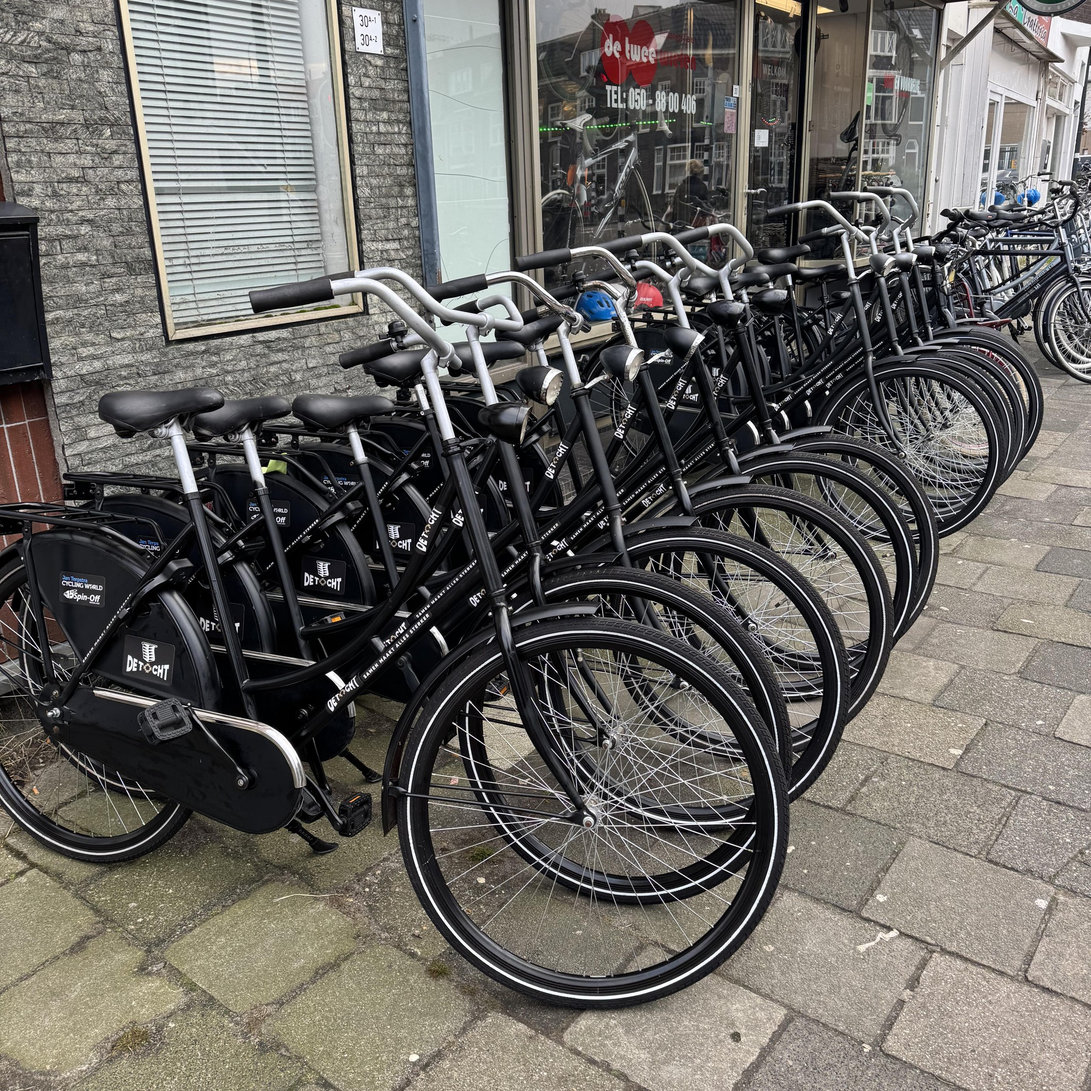
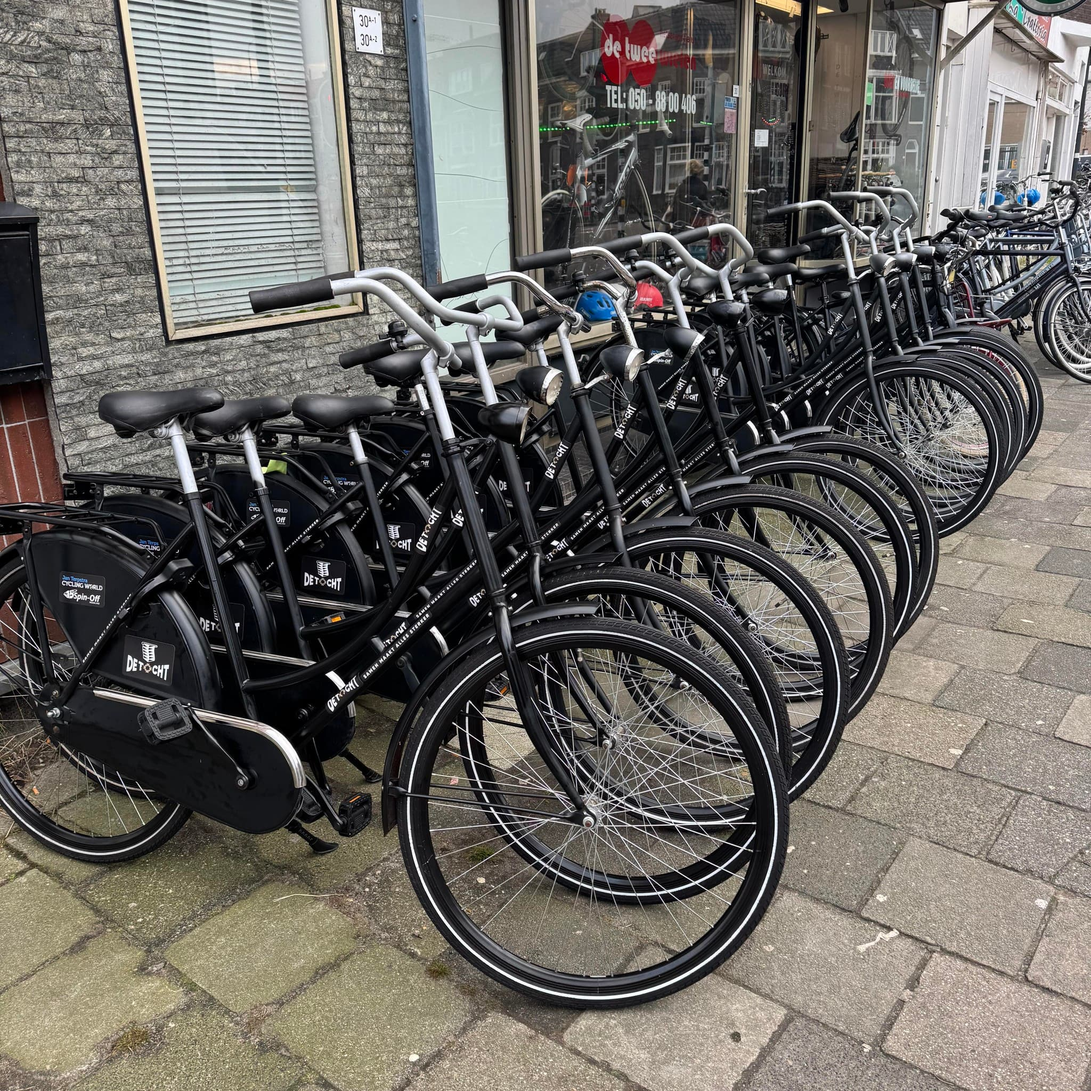
ahrefs feedback

diff --git a/src/data/service-pages.ts b/src/data/service-pages.ts
@@ -21,12 +21,12 @@ export const servicePages: ServicePage[] = [
       nl: "Volledig gereviseerde, studentvriendelijke fietsen vanaf €120.",
     },
     metaTitle: {
-      en: "Second Hand Bikes Groningen | Fixed & Student-Ready",
-      nl: "Tweedehands Fietsen Groningen | Rijklaar & Goedkoop",
+      en: "Second Hand Bikes from €120",
+      nl: "Tweedehands Fietsen v.a. €120",
     },
     metaDescription: {
-      en: "Looking for a cheap bike in Groningen? Our second-hand bikes are fully fixed and safety-checked. Typical prices: €70-€200.",
-      nl: "Op zoek naar een goedkope fiets in Groningen? Onze tweedehands fietsen zijn nagekeken en veilig. Prijzen doorgaans tussen €70-€200.",
+      en: "Looking for a cheap bike in Groningen? Our second-hand bikes are fully refurbished, safety-checked, and ready to ride. Quality cycles for every budget.",
+      nl: "Zoek je een goedkope fiets in Groningen? Onze tweedehands fietsen zijn volledig nagekeken, veilig en rijklaar. Kwaliteit voor elk budget.",
     },
     intro: {
       en: "In a cycling city like Groningen, you need a bike that is reliable but affordable. Our second-hand collection focuses on 'fixed' bikes—refurbished classics typically priced between €70 and €200.",
@@ -63,12 +63,12 @@ export const servicePages: ServicePage[] = [
       nl: "Snelle reparaties doorgaans binnen 24 uur klaar. Kleine fix vanaf €15.",
     },
     metaTitle: {
-      en: "Professional Bike Repair Groningen | All Models",
-      nl: "Professionele Fietsreparatie Groningen | Alle Modellen",
+      en: "Fast Bike Repair (24h Service)",
+      nl: "Snelle Fietsreparatie (24u klaar)",
     },
     metaDescription: {
-      en: "Reliable bike repair in Groningen. Small repairs from €15. Aiming for same-day service, 3-5 days in busy periods.",
-      nl: "Betrouwbare fietsreparatie in Groningen. Kleine reparaties vanaf €15. Streven naar dezelfde dag klaar, 3-5 dagen bij drukte.",
+      en: "Reliable bike repair in Groningen. Most repairs ready within 24 hours. From flat tires to gear adjustments, we get you back on the road fast.",
+      nl: "Betrouwbare fietsreparatie in Groningen. Meestal binnen 24 uur klaar. Van lekke banden tot versnellingen, wij helpen je snel weer op weg.",
     },
     intro: {
       en: "Don't let a broken chain or a flat tire ruin your day. Small repairs typically start around €15-€25, and we aim to have your bike back on the road within 1 business day.",
@@ -105,12 +105,12 @@ export const servicePages: ServicePage[] = [
       nl: "Kwaliteitsstadsfietsen vanaf €450. Rijklaar in 1-2 dagen.",
     },
     metaTitle: {
-      en: "New Bikes Groningen | Quality & Warranty",
-      nl: "Nieuwe Fietsen Groningen | Kwaliteit & Garantie",
+      en: "New City Bikes from €450",
+      nl: "Nieuwe Stadsfietsen v.a. €450",
     },
     metaDescription: {
-      en: "Latest city bike models in Groningen starting from €450. Professional assembly usually takes 1-2 business days.",
-      nl: "Nieuwste stadsfietsen in Groningen vanaf €450. Professionele montage duurt doorgaans 1-2 werkdagen.",
+      en: "Looking for a brand new bike in Groningen? Explore our range of quality city bikes with full warranty. Professional assembly and personal adjustments included.",
+      nl: "Op zoek naar een nieuwe fiets in Groningen? Ontdek ons aanbod kwaliteitsfietsen met volledige garantie. Inclusief professionele montage en afstelling.",
     },
     intro: {
       en: "Our new bike range starts from approximately €450 for reliable city models. To ensure your safety, we typically require 1-2 days to perform a professional zero-service check and height adjustment.",
@@ -147,12 +147,12 @@ export const servicePages: ServicePage[] = [
       nl: "ART-gekeurde sloten en LED-verlichting vanaf €15. Direct leverbaar.",
     },
     metaTitle: {
-      en: "Bike Accessories Groningen | Locks, Lights & Seats",
-      nl: "Fietsaccessoires Groningen | Sloten, Licht & Zadels",
+      en: "Bicycle Locks & Accessories",
+      nl: "Fietsaccessoires & ART Sloten",
     },
     metaDescription: {
-      en: "Upgrade your bike in Groningen. High-quality locks and lights typically €15-€80. Available for immediate pickup.",
-      nl: "Upgrade je fiets in Groningen. Sloten en lichten doorgaans €15-€80. Direct af te halen in de winkel.",
+      en: "Protect your bike in Groningen with ART-approved locks and stay visible with LED lights. Quality accessories for students and daily commuters.",
+      nl: "Bescherm je fiets in Groningen met ART-gekeurde sloten en blijf zichtbaar met LED-verlichting. Kwaliteitsaccessoires voor studenten en forenzen.",
     },
     intro: {
       en: "The right accessories range from €10 for basics to €90 for high-security locks. Most items are available for immediate pickup or same-day installation.",
@@ -188,12 +188,12 @@ export const servicePages: ServicePage[] = [
       nl: "Groningen-proof fietsen, perfect voor je dagelijkse ritten naar Zernike of het centrum.",
     },
     metaTitle: {
-      en: "Student Bikes Groningen | Reliable & Affordable",
-      nl: "Studentenfiets Kopen Groningen | Betrouwbaar & Betaalbaar",
+      en: "Student Bikes from €120",
+      nl: "Studentenfiets Kopen v.a. €120",
     },
     metaDescription: {
-      en: "Need a student bike in Groningen? We offer sturdy omafietsen and city bikes from €120, fully checked and ready for the daily commute to RUG or Hanze.",
-      nl: "Studentenfiets nodig in Groningen? Wij bieden stevige omafietsen en stadsfietsen vanaf €120, volledig nagekeken en klaar voor de rit naar RUG of Hanze.",
+      en: "Looking for a reliable student bike in Groningen? We offer refurbished city bikes and omafietsen from €120. Perfect for Zernike, Hanze, or RUG commutes.",
+      nl: "Betrouwbare studentenfiets nodig in Groningen? Wij bieden refurbished stadsfietsen en omafietsen vanaf €120. Ideaal voor ritjes naar Zernike of Hanze.",
     },
     intro: {
       en: "Welcome to the ultimate cycling city. As a student in Groningen, a working bike isn't an option—it's a lifeline. We provide no-nonsense, reliable bikes that survive the student lifestyle.",
@@ -230,12 +230,12 @@ export const servicePages: ServicePage[] = [
       nl: "Budgetvriendelijke opties zonder in te leveren op basisveiligheid.",
     },
     metaTitle: {
-      en: "Cheap Bikes Groningen | Best Budget Options",
-      nl: "Goedkope Fiets Kopen Groningen | Beste Budget Opties",
+      en: "Cheap Budget Bikes Groningen",
+      nl: "Goedkope Fietsen Groningen",
     },
     metaDescription: {
-      en: "Looking for the cheapest working bikes in Groningen? Check out our budget options. Safe, functional, and strictly priced for tight budgets.",
-      nl: "Op zoek naar de goedkoopste werkende fietsen in Groningen? Bekijk onze budget opties. Veilig, functioneel en scherp geprijsd voor een krap budget.",
+      en: "Need a bike but on a tight budget? Check out our range of cheap, functional, and safety-checked bicycles in Groningen. Safety at the best price.",
+      nl: "Fiets nodig met een krap budget? Bekijk ons aanbod goedkope, functionele en nagekeken fietsen in Groningen. Veiligheid voor de beste prijs.",
     },
     intro: {
       en: "Sometimes you just need to get from point A to B as cheaply as possible. Our budget category offers the most affordable working bikes in Groningen.",
@@ -255,18 +255,3 @@ export const servicePages: ServicePage[] = [
     },
   },
 ];
-
-export function getServicePageBySlug(
-  slug: string,
-  city: string
-): ServicePage | undefined {
-  return servicePages.find((page) => page.slug === slug && page.city === city);
-}
-
-export function getServicePagesByCity(city: string) {
-  return servicePages.filter((page) => page.city === city);
-}
-
-export function getLocalizedServiceCta(lang: AppLanguage) {
-  return lang === "nl" ? "Bekijk service" : "View service";
-}

diff --git a/src/data/neighborhood-pages.ts b/src/data/neighborhood-pages.ts
@@ -15,12 +15,12 @@ export const neighborhoodPages: NeighborhoodPage[] = [
       nl: "Vinkhuizen",
     },
     metaTitle: {
-      en: "Bike Shop near Vinkhuizen Groningen | Repairs & Sales",
-      nl: "Fietsenwinkel nabij Vinkhuizen Groningen | Reparatie & Verkoop",
+      en: "Bike Shop Groningen Vinkhuizen",
+      nl: "Fietsenmaker Groningen Vinkhuizen",
     },
     metaDescription: {
-      en: "Need reliable bike repair or a new city bike near Vinkhuizen? Our bike shop on Paterswoldseweg is just a short ride away for all your cycling needs.",
-      nl: "Betrouwbare fietsreparatie of een nieuwe stadsfiets nodig nabij Vinkhuizen? Onze fietsenwinkel aan de Paterswoldseweg is slechts een kort ritje verderop.",
+      en: "Need a bike shop near Vinkhuizen? We offer expert repairs and reliable second-hand bikes at our nearby Paterswoldseweg store. Fast and local service.",
+      nl: "Fietsenmaker nabij Vinkhuizen nodig? Voor snelle reparaties of een stevige tweedehands fiets ben je bij ons aan de Paterswoldseweg aan het juiste adres.",
     },
     intro: {
       en: "Serving daily cyclists in Vinkhuizen! Whether you need a quick puncture repair or a sturdy second-hand bike, our main shop is just 10 minutes away.",
@@ -53,11 +53,11 @@ export const neighborhoodPages: NeighborhoodPage[] = [
       nl: "Helpman",
     },
     metaTitle: {
-      en: "Bikes & Repair near Helpman Groningen | Fast Service",
-      nl: "Fietsen & Reparatie nabij Helpman Groningen | Snelle Service",
+      en: "Bikes & Repair Groningen Helpman",
+      nl: "Fietsen & Reparatie Groningen Helpman",
     },
     metaDescription: {
-      en: "Looking for a bike shop near Helpman, Groningen? We offer expert bike repairs, new models, and accessories just a quick cycle from your neighborhood.",
+      en: "Looking for a bike shop near Helpman? We provide fast repairs, new bike sales, and quality accessories just a short ride from your neighborhood.",
       nl: "Op zoek naar een fietsenwinkel vlakbij Helpman, Groningen? Wij bieden vakkundige fietsreparaties, nieuwe modellen en accessoires op korte fietsafstand.",
     },
     intro: {
@@ -91,12 +91,12 @@ export const neighborhoodPages: NeighborhoodPage[] = [
       nl: "Korrewegwijk",
     },
     metaTitle: {
-      en: "Bike Shop near Korrewegwijk | Second-Hand Bikes & Fixes",
-      nl: "Fietsenwinkel nabij Korrewegwijk | Tweedehands Fietsen & Reparatie",
+      en: "Bike Repair Groningen Korrewegwijk",
+      nl: "Fietsenmaker Groningen Korrewegwijk",
     },
     metaDescription: {
-      en: "Fast bike repair and affordable second-hand bikes for students and locals in Korrewegwijk. Visit our nearby Groningen shop for great deals.",
-      nl: "Snelle fietsreparatie en betaalbare tweedehands fietsen voor studenten en locals in de Korrewegwijk. Bezoek onze nabijgelegen winkel in Groningen.",
+      en: "Broken bike in Korrewegwijk? We offer fast repairs and cheap student bikes nearby. Keep your daily commute to the university safe and reliable.",
+      nl: "Fiets kapot in de Korrewegwijk? Wij bieden snelle reparaties en goedkope studentenfietsen in de buurt. Blijf veilig en betrouwbaar naar de uni fietsen.",
     },
     intro: {
       en: "Cycling from the Korrewegwijk to the university? Make sure your bike is up to the task. We offer swift repairs and heavy-duty locks.",
@@ -129,12 +129,12 @@ export const neighborhoodPages: NeighborhoodPage[] = [
       nl: "Centrum",
     },
     metaTitle: {
-      en: "Bike Shop near Groningen Centrum | Repairs, Locks & Bikes",
-      nl: "Fietsenwinkel nabij Groningen Centrum | Reparatie, Sloten & Fietsen",
+      en: "Bike Shop Groningen City Center",
+      nl: "Fietsenmaker Groningen Centrum",
     },
     metaDescription: {
-      en: "Need a bike shop near Groningen Centrum? We provide fast bike repairs, secure locks, accessories, and quality bikes just a short ride from the city center.",
-      nl: "Op zoek naar een fietsenwinkel nabij Groningen Centrum? Wij bieden snelle fietsreparaties, veilige sloten, accessoires en kwaliteitsfietsen op korte fietsafstand van het centrum.",
+      en: "Bike shop near Groningen Centrum needed? We provide fast repairs, secure locks, and quality bikes within walking distance of the Grote Markt.",
+      nl: "Fietsenwinkel nabij Groningen Centrum nodig? Wij bieden snelle reparaties, veilige sloten en kwaliteitsfietsen vlakbij de Grote Markt.",
     },
     intro: {
       en: "For cyclists in Groningen Centrum, speed matters. From flat tires to brake issues, our nearby shop helps you get moving again without hassle.",
@@ -167,12 +167,12 @@ export const neighborhoodPages: NeighborhoodPage[] = [
       nl: "Selwerd",
     },
     metaTitle: {
-      en: "Bike Shop near Selwerd Groningen | Student Bikes & Repair",
-      nl: "Fietsenwinkel nabij Selwerd Groningen | Studentenfietsen & Reparatie",
+      en: "Bike Repair Groningen Selwerd",
+      nl: "Fietsenmaker Groningen Selwerd",
     },
     metaDescription: {
-      en: "Looking for bike repair near Selwerd, Groningen? We help students and residents with affordable second-hand bikes, repairs, and secure locks.",
-      nl: "Op zoek naar fietsreparatie nabij Selwerd, Groningen? Wij helpen studenten en bewoners met betaalbare tweedehands fietsen, reparaties en veilige sloten.",
+      en: "Quick bike repairs near Selwerd. We help students with affordable second-hand bikes, lock replacements, and same-day service near Zernike campus.",
+      nl: "Snelle fietsreparatie nabij Selwerd. Wij helpen studenten met betaalbare fietsen, sloten en snelle service vlakbij de Zernike campus.",
     },
     intro: {
       en: "Selwerd is full of students, commuters, and daily riders. We offer practical bike solutions nearby, from urgent repairs to affordable replacement bikes.",
@@ -181,7 +181,7 @@ export const neighborhoodPages: NeighborhoodPage[] = [
     paragraphs: {
       en: [
         "For many people in Selwerd, the bike is the fastest way to get to Zernike, the city center, shops, and the station, so reliability is essential.",
-        "Our Groningen shop supports customers from Selwerd with puncture repairs, brake adjustments, chain replacements, locks, lights, and ready-to-ride second-hand bicycles.",
+        "Our shop in Groningen supports customers from Selwerd with puncture repairs, brake adjustments, chain replacements, locks, lights, and ready-to-ride second-hand bicycles.",
         "If your current bike is too damaged or too unreliable, we can help you upgrade to a stronger city bike that better fits student life and daily commuting.",
       ],
       nl: [
@@ -192,11 +192,3 @@ export const neighborhoodPages: NeighborhoodPage[] = [
     },
   },
 ];
-
-export function getNeighborhoodPagesByCity(city: string) {
-  return neighborhoodPages.filter((page) => page.city === city);
-}
-
-export function getNeighborhoodPageBySlug(slug: string, city: string) {
-  return neighborhoodPages.find((page) => page.slug === slug && page.city === city);
-}

diff --git a/src/app/[lang]/terms/page.tsx b/src/app/[lang]/terms/page.tsx
@@ -20,15 +20,15 @@ export async function generateMetadata({
 
   const siteConfig = getSiteConfig("bikes-groningen");
 
-  return {
+return {
     title:
       lang === "nl"
-        ? `Algemene Voorwaarden | ${siteConfig.siteName}`
-        : `Terms and Conditions | ${siteConfig.siteName}`,
+        ? `Algemene Voorwaarden`
+        : `Terms and Conditions`,
     description:
       lang === "nl"
-        ? `Algemene voorwaarden van ${siteConfig.siteName}.`
-        : `Terms and conditions of ${siteConfig.siteName}.`,
+        ? `Bekijk de algemene voorwaarden van ${siteConfig.siteName}. Duidelijke afspraken over de aankoop van fietsen, reparatiegarantie en onze lokale services.`
+        : `View the terms and conditions of ${siteConfig.siteName}. Clear agreements on bike purchases, repair warranties, and our local bicycle services.`,
     alternates: {
       canonical: `https://${siteConfig.domain}/${lang}/terms`,
       languages: {

diff --git a/src/components/sections/home-faq.tsx b/src/components/sections/home-faq.tsx
@@ -27,9 +27,9 @@ export function HomeFaq({ lang }: HomeFaqProps) {
           </div>
 
           <div className="relative w-full max-w-md overflow-hidden rounded-2xl">
-            {/* Note: Ensure faq.png is placed in your /public directory if using Next.js */}
+            {/* Note: Ensure faq.jpeg is placed in your /public directory if using Next.js */}
             <img 
-              src="/images/faq.png" 
+              src="/images/faq.jpeg" 
               alt={lang === "nl" ? "Veelgestelde vragen illustratie" : "FAQ illustration"} 
               className="h-auto w-full object-cover"
               loading="lazy"
